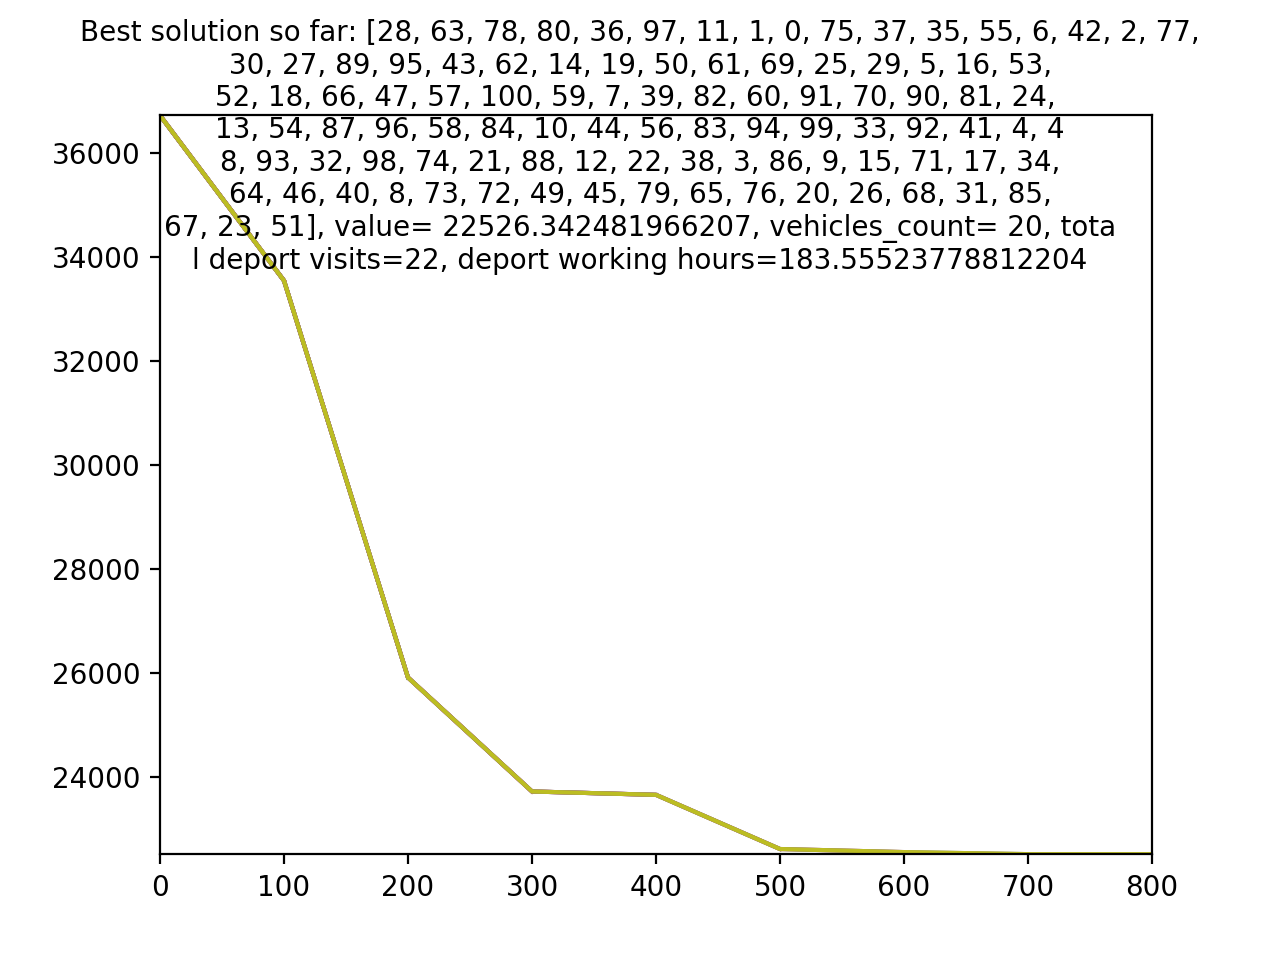
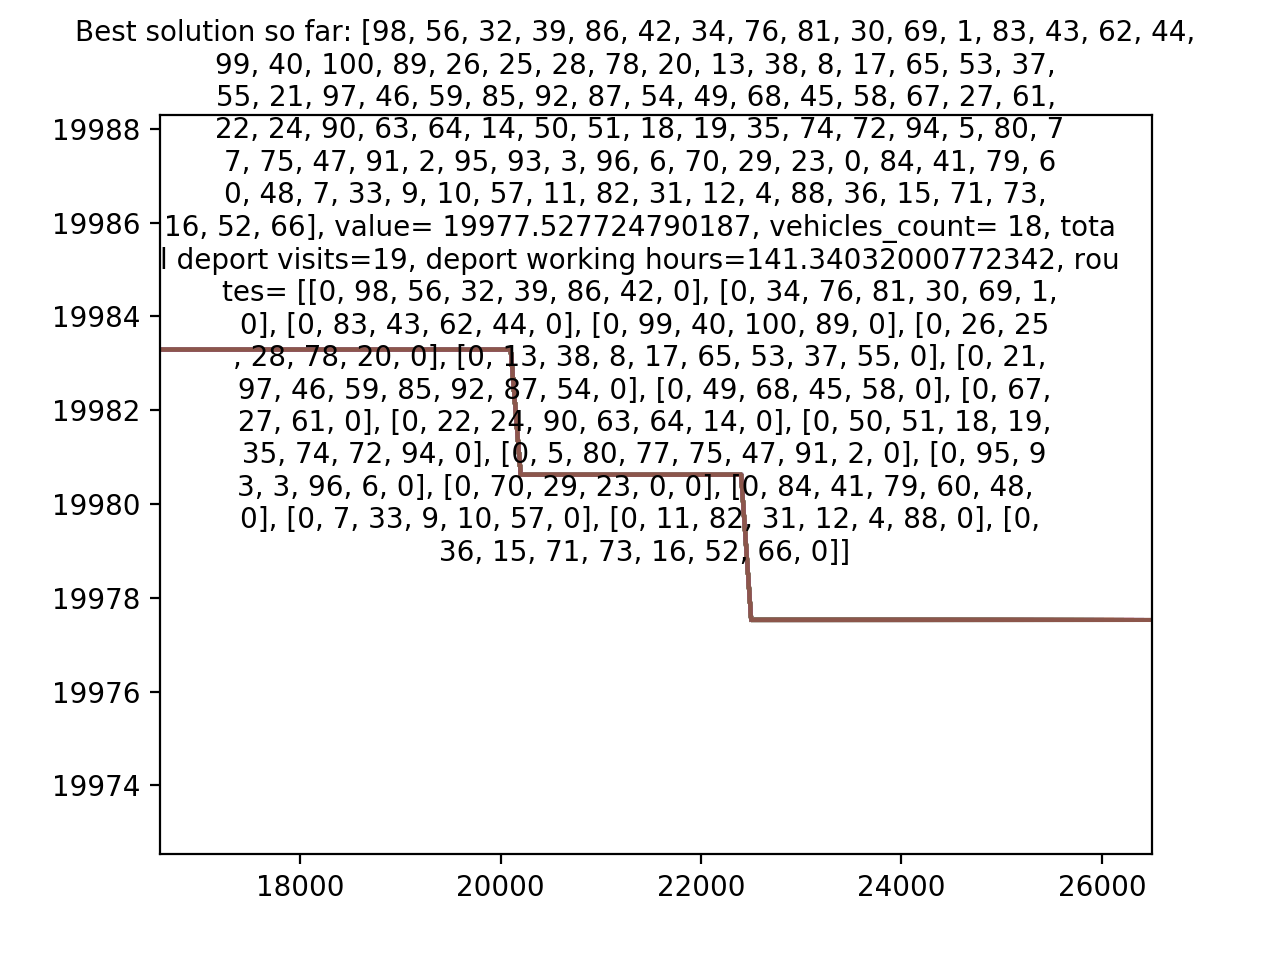
VRPTW: result R101 After 26000 generations ------------------------------ GA parameters as it's found in ga_params.py: vehicle_cost_per_dist = 1.0 vehicle_speed_avg = 1.0 vehicle_capacity = 200 vehicles_count_over_deport_hours_preference = 1000 ------------------------------ best found result: value

diff --git a/chromosome.py b/chromosome.py
@@ -11,6 +11,7 @@ class Chromosome:
     value = None                # type: float
 
     vehicles_count = None       # type: int
+    vehicles_routes = None      # type: list
     route_rounds = None         # type: int
     total_travel_dist = None    # type: float
     total_elapsed_time = None   # type: float
@@ -25,7 +26,8 @@ class Chromosome:
         self.value = self.get_cost_score()
 
     def initial_port(self):
-        self.vehicles_count = 0
+        self.vehicles_count = 1
+        self.vehicles_routes = [[0]]
         self.route_rounds = 0
         self.total_travel_dist = 0
         self.total_elapsed_time = 0
@@ -79,6 +81,7 @@ class Chromosome:
         self.total_travel_dist += distance
         self.elapsed_time += self.get_travel_time(distance)
         self.max_elapsed_time = max(self.elapsed_time, self.max_elapsed_time)
+        self.vehicles_routes[-1].append(dest)
         if dest != 0:
             dest_customer = self.get_node(dest)  # type: Node
             self.current_load += dest_customer.demand
@@ -88,6 +91,7 @@ class Chromosome:
 
     def add_vehicle(self):
         self.vehicles_count += 1
+        self.vehicles_routes.append([0])
         self.elapsed_time = 0
         self.current_load = 0
 
@@ -130,6 +134,18 @@ class Chromosome:
             deport_working_hours=self.max_elapsed_time)
         return total_travel_cost + total_vehicles_and_deport_working_hours_cost
 
+    def plot_get_route_cords(self) -> list:
+        rounds = []
+        for vehicle_route in self.vehicles_routes:
+            route_x_holder = []
+            route_y_holder = []
+            for customer_index in vehicle_route:
+                customer = self.get_node(customer_index)    # type: Node
+                route_x_holder.append(customer.x)
+                route_y_holder.append(customer.y)
+            rounds.append((route_x_holder, route_y_holder))
+        return rounds
+
     def __iter__(self):
         for r in self.route:
             yield r
@@ -143,7 +159,7 @@ class Chromosome:
     def __str__(self):
         return str(self.route) + ", value= " + str(self.value) + ", vehicles_count= " + str(self.vehicles_count) \
                + ", total deport visits=" + str(self.route_rounds) \
-               + ", deport working hours=" + str(self.max_elapsed_time)
+               + ", deport working hours=" + str(self.max_elapsed_time) + ", routes= " + str(self.vehicles_routes)
 
     def __repr__(self):
         return self.__str__()

diff --git a/evolver.py b/evolver.py
@@ -55,6 +55,7 @@ class Population:
         self.generation = self.initial_generation()
         plt.ion()
         self.fig, self.subplot = plt.subplots()
+        self.fig2, self.subplot2 = plt.subplots()
 
     def initial_generation(self, init_size: int=None) -> List_Chromosome:
         if not init_size:
@@ -145,17 +146,25 @@ class Population:
         return survivors + new_gen
 
     def plot_draw(self):
+        plt.figure(1)
+        min_generation = min(self.generation)   # type: Chromosome
         self.plot_x_axis.append(self.gen_index)
-        self.plot_y_axis.append(min(self.generation).value)
+        self.plot_y_axis.append(min_generation.value)
         self.plot_x_axis = self.plot_x_axis[-self.plot_x_window:]
         self.plot_y_axis = self.plot_y_axis[-self.plot_x_window:]
         self.subplot.set_xlim([self.plot_x_axis[0], self.plot_x_axis[-1]])
         self.subplot.set_ylim([min(self.plot_y_axis) - 5, max(self.plot_y_axis) + 5])
-        plt.suptitle('Best solution so far: ' + re.sub("(.{64})", "\\1\n", str(min(self.generation)), 0, re.DOTALL),
+        plt.suptitle('Best solution so far: ' + re.sub("(.{64})", "\\1\n", str(min_generation), 0, re.DOTALL),
                      fontsize=10)
+        print(min_generation)
         self.subplot.plot(self.plot_x_axis, self.plot_y_axis)
+
+        plt.figure(2)
+        for route_x, route_y in min_generation.plot_get_route_cords():
+            plt.plot(route_x, route_y)
         plt.draw()
         self.fig.savefig("plot-output.png")
+        self.fig2.savefig("plot2-output.png")
         plt.pause(0.0001)
 
     def __str__(self):
@@ -197,6 +206,7 @@ for key, c in R101.items():
 MAX_GEN = 500000
 
 customers_distance_table = CustomerDistanceTable(customers)
+# print(str(customers_distance_table))
 
 ga_pop = Population(100, len(customers))
 # print(str(ga_pop))
